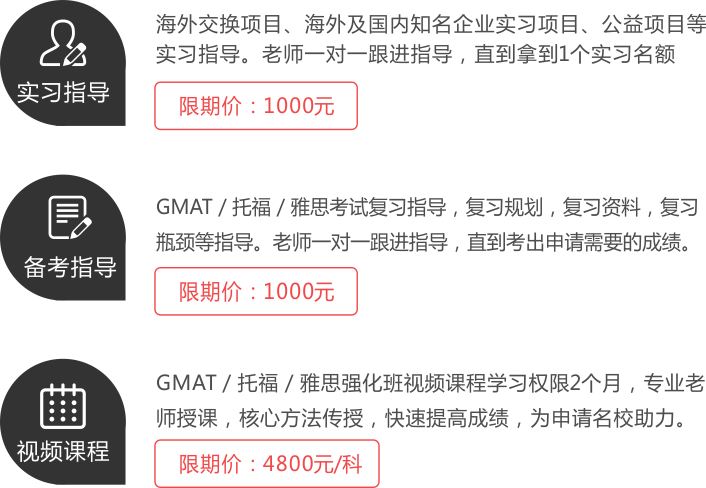
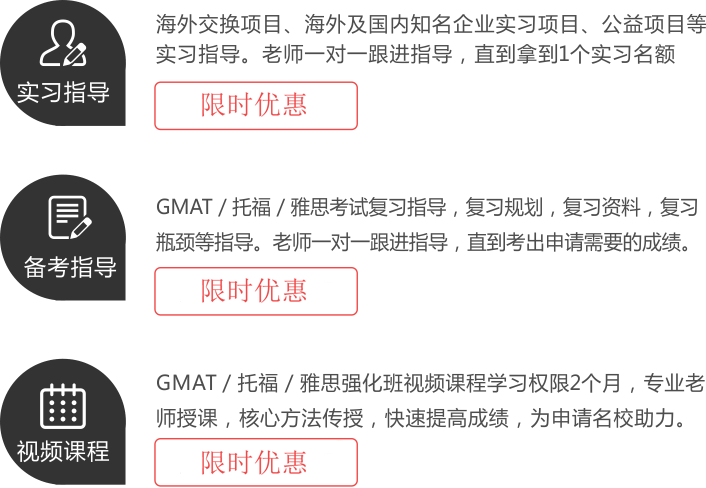
GMAT老师更换，美国方案价格调整

Changed region(s): [[0.2181, 0.8914, 0.5609, 1.0], [0.2493, 0.5533, 0.4674, 0.6148], [0.2493, 0.1844, 0.4674, 0.2459]]

diff --git a/modules/wap/views/gmatsheet/index.php b/modules/wap/views/gmatsheet/index.php
@@ -76,8 +76,17 @@
     	<a href="http://p.qiao.baidu.com/im/index?siteid=9946474&ucid=3827656&cp=&cr=&cw=">
 	        <div class="fl open-img"><img src="/wap/images/sub-5.png" alt=""></div>
 	        <div class="fr open-text">
+	            <h1 class="open-name">GMAT强化班（连授班） </h1>
+	            <P class="open-time">3月、4月、5月、6月、7月、8月</P>
+	        </div>
+        </a>
+    </li>
+    <li>
+    	<a href="http://p.qiao.baidu.com/im/index?siteid=9946474&ucid=3827656&cp=&cr=&cw=">
+	        <div class="fl open-img"><img src="/wap/images/sub-5.png" alt=""></div>
+	        <div class="fr open-text">
 	            <h1 class="open-name">GMAT强化班（周末班） </h1>
-	            <P class="open-time">每月周末滚动开班</P>
+	            <P class="open-time">3月-8月周末开班</P>
 	        </div>
         </a>
     </li>
@@ -85,17 +94,8 @@
     	<a href="http://p.qiao.baidu.com/im/index?siteid=9946474&ucid=3827656&cp=&cr=&cw=">
 	        <div class="fl open-img"><img src="/wap/images/sub-5.png" alt=""></div>
 	        <div class="fr open-text">
-	            <h1 class="open-name">GMAT国庆班 </h1>
-	            <P class="open-time">10月1、2、3、4、5、6日（全日制）</P>
-	        </div>
-        </a>
-    </li>
-    <li>
-    	<a href="http://p.qiao.baidu.com/im/index?siteid=9946474&ucid=3827656&cp=&cr=&cw=">
-	        <div class="fl open-img"><img src="/wap/images/sub-5.png" alt=""></div>
-	        <div class="fr open-text">
-	            <h1 class="open-name">GMAT寒假班  </h1>
-	            <P class="open-time">1、2月每周滚动开班；连授班</P>
+	            <h1 class="open-name">GMAT 强化班（在线班）  </h1>
+	            <P class="open-time">随时开课</P>
 	        </div>
         </a>
     </li>

diff --git a/modules/wap/views/study/usa.php b/modules/wap/views/study/usa.php
@@ -65,8 +65,8 @@
         <div class="u-de-wrap">
             <p class="u-de">适合DIY或者半DIY，或者纠结机构选择的同学。可享受专业申请老师留学规划、实习指导、备考指导、选校评估服务。</p>
             <div class="price-wrap">
-                <span class="price">限期优惠价：980元</span>
-                <em class="u-price">原价：8800元 </em>
+                <span class="price">限时优惠</span>
+                <!--<em class="u-price">原价：8800元 </em>-->
             </div>
             <div class="u-btn">
                 <a href="http://p.qiao.baidu.com/im/index?siteid=9946474&ucid=3827656&cp=&cr=&cw=">
@@ -82,11 +82,11 @@
             <p class="u-de">包含留学规划、GMAT视频课程及考试辅导、背景提升指导、选校、文书、网申、签证。限期选择全套服务，享受半价优惠。</p>
             <div class="price-wrap">
                 <div class="inb">
-                    <p class="price">限期优惠价：980元</p>
-                    <p class="price">限期优惠价：980元</p>
+                    <p class="price">限时优惠</p>
+<!--                    <p class="price">限期优惠价：980元</p>-->
                 </div>
-                <img class="u-big" src="/wap/images/u-big.png" alt="">
-                <em class="u-price inb">原价：8800元 </em>
+                <!--<img class="u-big" src="/wap/images/u-big.png" alt="">-->
+                <!--<em class="u-price inb">原价：8800元 </em>-->
             </div>
             <div class="u-btn">                <a href="http://p.qiao.baidu.com/im/index?siteid=9946474&ucid=3827656&cp=&cr=&cw=">
                     <img src="/wap/images/u-btn.png" alt="">

diff --git a/modules/wap/views/gmatsheet/vip.php b/modules/wap/views/gmatsheet/vip.php
@@ -75,11 +75,11 @@
         </li>
         <li>
             <img src="/wap/images/v-7.png" alt="">
-            <p class="teacher-name">Demon</p>
+            <p class="teacher-name">Gary</p>
         </li>
         <li>
             <img src="/wap/images/v-8.png" alt="">
-            <p class="teacher-name">James</p>
+            <p class="teacher-name">Bob</p>
         </li>
 
 

diff --git a/modules/wap/views/index/index.php b/modules/wap/views/index/index.php
@@ -460,7 +460,7 @@
     <div class="select-wrap s1">
         <span class="inb current">留学动态</span>
         <span class="inb">考试动态</span>
-        <span class="inb">申友专题</span>
+        <span class="inb">免费公开课</span>
     </div>
     <!--选项卡-->
     <div class="info-select-wrap" style="display: block;">
